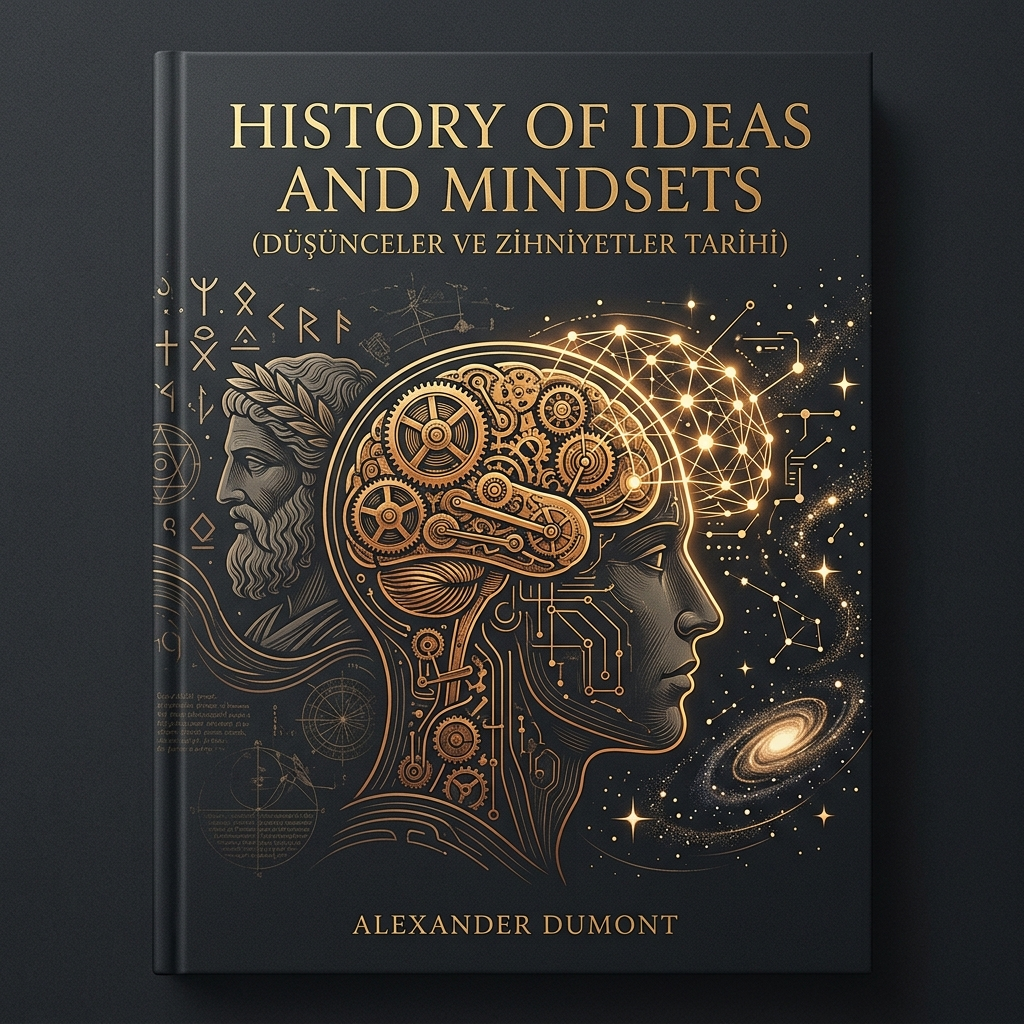
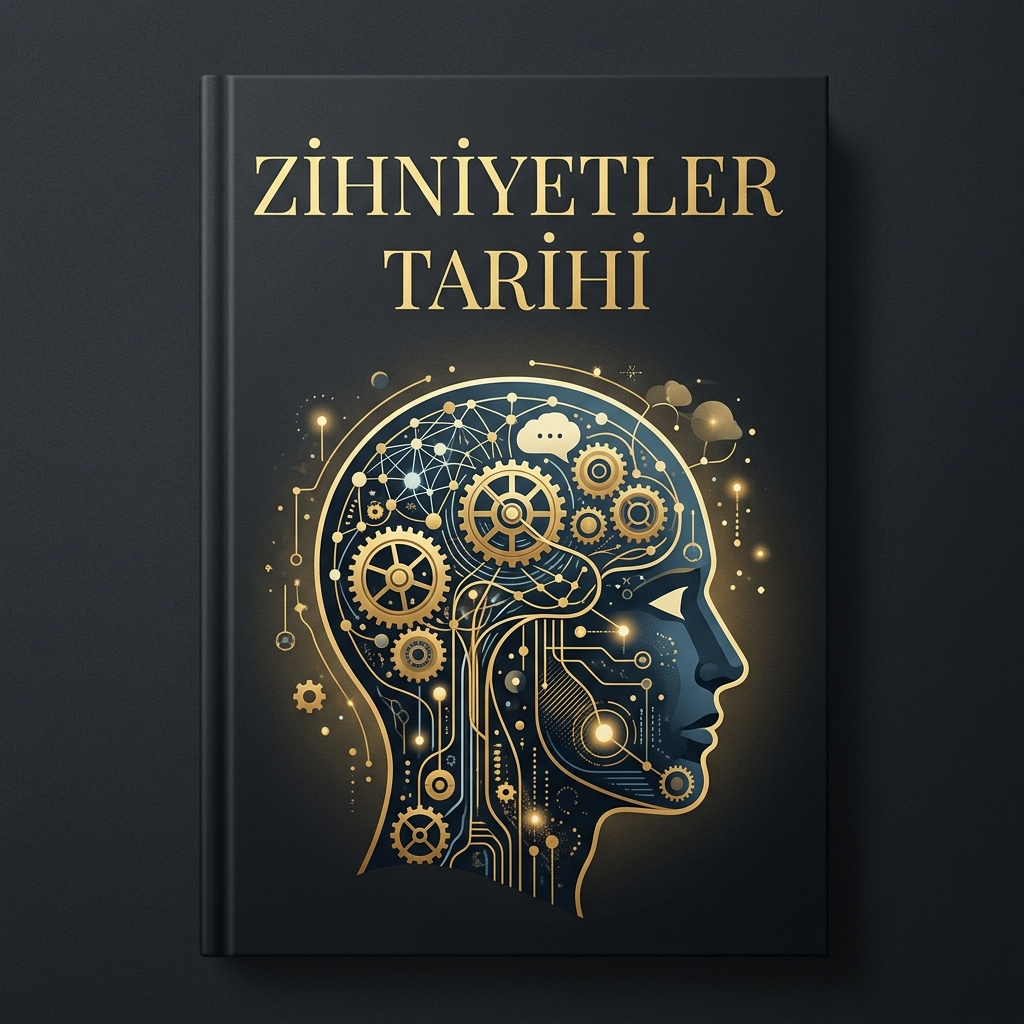
feat: upgrade all book covers with beautiful custom Turkish title designs and no author names, and render them elegantly in the reader introduction view

Changed region(s): [[0.125, 0.0312, 0.8438, 0.9375], [0.8438, 0.0938, 0.875, 0.1562]]

diff --git a/style.css b/style.css
@@ -2825,3 +2825,127 @@ ol.interactive-checklist li {
   }
 }
 
+/* Reader Giriş Sayfası Tasarımı */
+.reader-intro-page {
+  padding: 1rem 0;
+}
+
+.reader-intro-grid {
+  display: grid;
+  grid-template-columns: 200px 1fr;
+  gap: 2rem;
+  align-items: start;
+}
+
+.reader-intro-cover-container {
+  border-radius: 8px;
+  overflow: hidden;
+  box-shadow: 0 10px 25px rgba(0, 0, 0, 0.4);
+  background: #111;
+  aspect-ratio: 0.707 / 1;
+  display: flex;
+  align-items: center;
+  justify-content: center;
+}
+
+.reader-intro-cover {
+  width: 100%;
+  height: 100%;
+  object-fit: cover;
+  transition: transform 0.3s ease;
+}
+
+.reader-intro-cover:hover {
+  transform: scale(1.05);
+}
+
+.reader-intro-details {
+  display: flex;
+  flex-direction: column;
+  gap: 0.5rem;
+}
+
+.reader-intro-category {
+  font-size: 0.8rem;
+  text-transform: uppercase;
+  letter-spacing: 1.5px;
+  color: var(--color-accent);
+  font-weight: 700;
+}
+
+.reader-intro-title {
+  font-size: 2rem !important;
+  font-family: 'Playfair Display', serif !important;
+  margin: 0 !important;
+  color: var(--color-text-main) !important;
+  line-height: 1.2 !important;
+}
+
+.reader-intro-subtitle {
+  font-size: 1.1rem;
+  font-style: italic;
+  color: var(--color-text-muted);
+  margin-top: 0.2rem;
+  line-height: 1.4;
+}
+
+.reader-intro-stats {
+  display: flex;
+  gap: 0.75rem;
+  margin: 0.5rem 0;
+  flex-wrap: wrap;
+}
+
+.stat-badge {
+  background: rgba(255, 255, 255, 0.05);
+  border: 1px solid var(--color-border);
+  padding: 0.35rem 0.75rem;
+  border-radius: 50px;
+  font-size: 0.8rem;
+  font-weight: 500;
+  color: var(--color-text-main);
+}
+
+.reader-intro-description {
+  font-size: 0.95rem;
+  line-height: 1.6;
+  color: var(--color-text-muted);
+  margin-top: 0.5rem;
+}
+
+.reader-divider {
+  border: 0;
+  height: 1px;
+  background: linear-gradient(to right, var(--color-border), rgba(255, 255, 255, 0.05));
+  margin: 2.5rem 0;
+}
+
+.reader-intro-body h2 {
+  font-family: 'Playfair Display', serif !important;
+  font-size: 1.5rem !important;
+  margin-bottom: 1.2rem !important;
+  color: var(--color-text-main) !important;
+}
+
+.reader-intro-paragraph {
+  font-size: 1.05rem;
+  line-height: 1.8;
+  color: var(--color-text-main);
+}
+
+@media (max-width: 768px) {
+  .reader-intro-grid {
+    grid-template-columns: 1fr;
+    gap: 1.5rem;
+    text-align: center;
+  }
+  .reader-intro-cover-container {
+    max-width: 200px;
+    margin: 0 auto;
+  }
+  .reader-intro-stats {
+    justify-content: center;
+  }
+}
+
+

diff --git a/app.js b/app.js
@@ -1245,9 +1245,27 @@ document.addEventListener("DOMContentLoaded", () => {
 
     if (chapterIndex === -1) {
       contentHTML = `
-        <h1>Giriş</h1>
-        <div style="margin-top: 2rem;">
-          <p>${currentBookData.intro}</p>
+        <div class="reader-intro-page">
+          <div class="reader-intro-grid">
+            <div class="reader-intro-cover-container">
+              <img src="covers/${currentBookData.id}.png" class="reader-intro-cover" alt="${currentBookData.title} Kapağı">
+            </div>
+            <div class="reader-intro-details">
+              <span class="reader-intro-category">${currentBookData.category}</span>
+              <h1 class="reader-intro-title">${currentBookData.title}</h1>
+              <p class="reader-intro-subtitle">${currentBookData.subtitle}</p>
+              <div class="reader-intro-stats">
+                <span class="stat-badge">📚 10 Cilt / 100 Bölüm</span>
+                <span class="stat-badge">📖 Tam Metin</span>
+              </div>
+              <p class="reader-intro-description">${currentBookData.desc || ""}</p>
+            </div>
+          </div>
+          <hr class="reader-divider">
+          <div class="reader-intro-body">
+            <h2>Giriş ve Sunuş</h2>
+            <div class="reader-intro-paragraph">${currentBookData.intro}</div>
+          </div>
         </div>
       `;
     } else if (chapterIndex === -2) {

diff --git a/index.html b/index.html
@@ -41,7 +41,7 @@
   <link rel="preconnect" href="https://fonts.gstatic.com" crossorigin>
   <link href="https://fonts.googleapis.com/css2?family=Inter:wght@300;400;500;600&family=Lora:ital,wght@0,400;0,500;0,600;0,700;1,400&family=Playfair+Display:ital,wght@0,400;0,500;0,600;0,700;1,400&display=swap" rel="stylesheet">
   
-  <link rel="stylesheet" href="/style.css?v=58">
+  <link rel="stylesheet" href="/style.css?v=59">
 </head>
 <body class="dark-theme">
 
